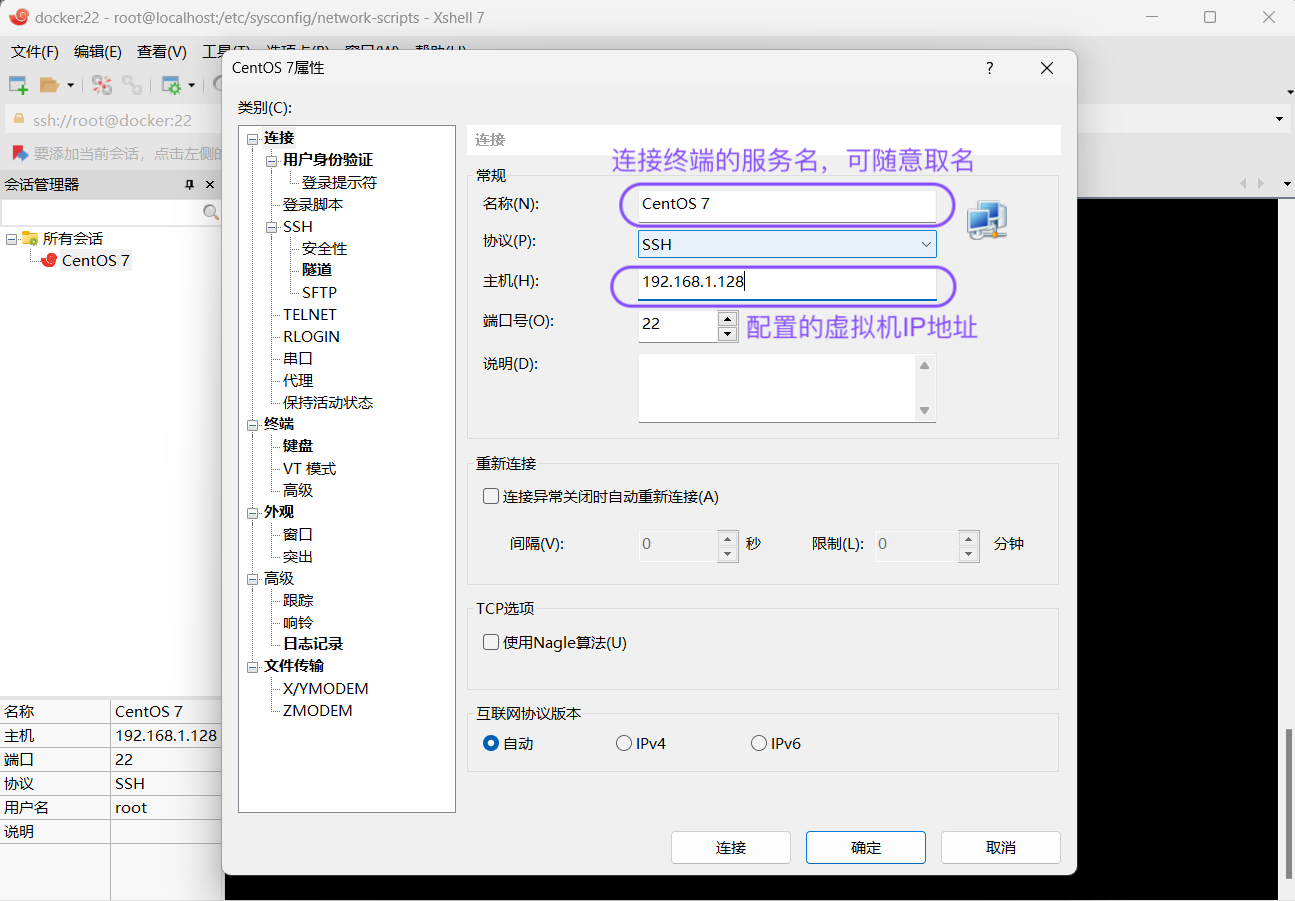
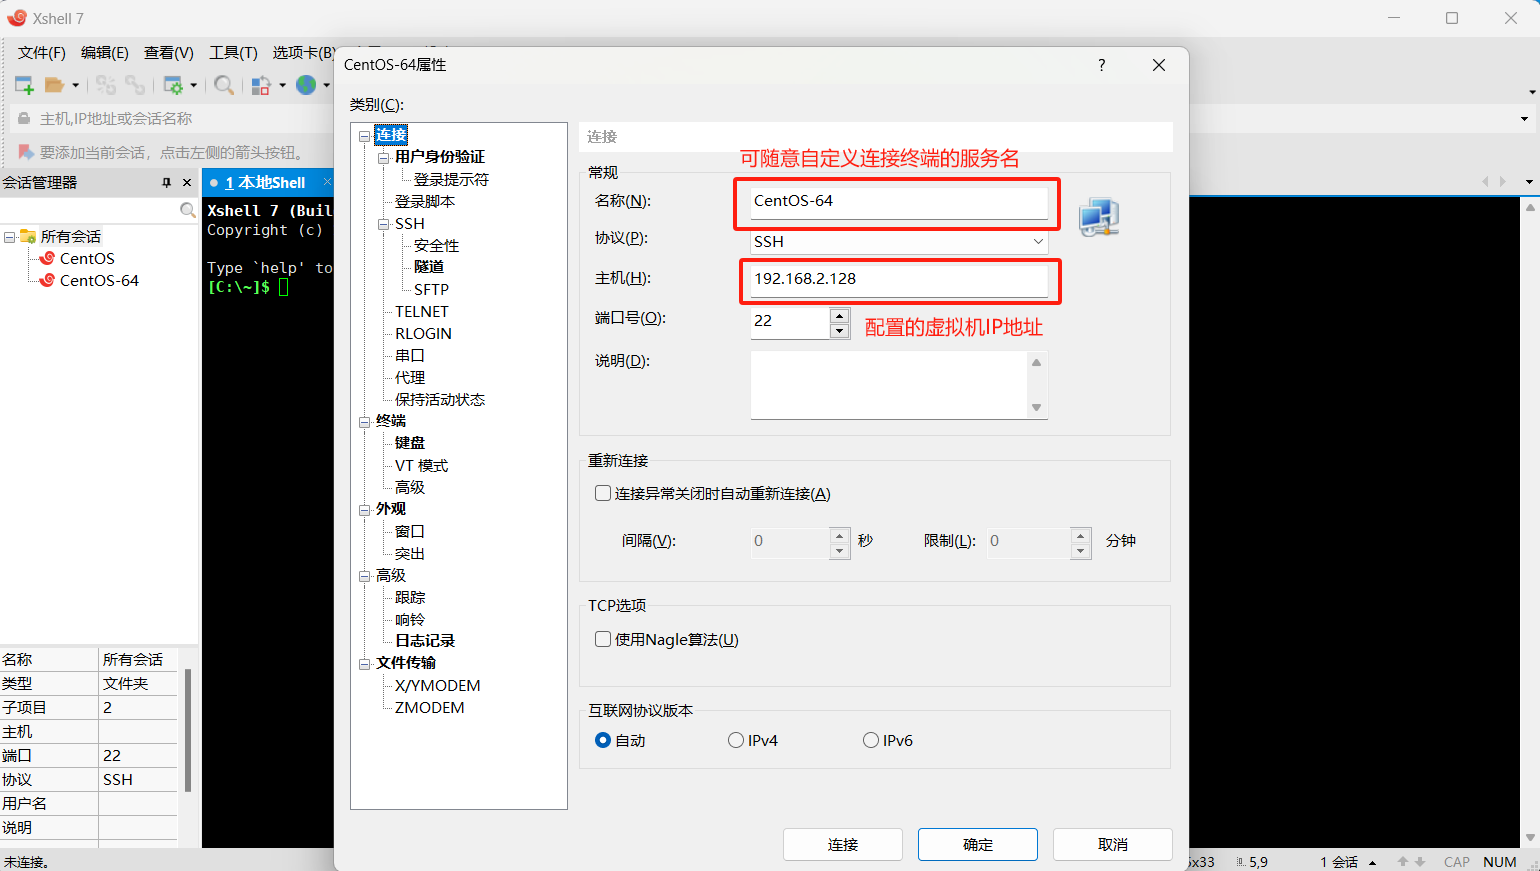
代码提交，无重大版本更迭

diff --git a/SpringBoot前沿技术栈/20_Docker/Windows/Docker-1、环境配置.md b/SpringBoot前沿技术栈/20_Docker/Windows/Docker-1、环境配置.md
@@ -4,7 +4,7 @@
 
 # **学习了解 Docker**
 
-## 一、安装 虚拟机-VMware、CentOS 7镜像系统
+## 一、安装 虚拟机-VMware、CentOS 7镜像系统 [安装过程有部分缺省，忽略部分为默认配置直接下一步即可]
 
 1. ### ***安装好VMware后，新建一个虚拟机,选择自定义配置***
 
@@ -86,18 +86,55 @@
    ```
 
    ![输入图片说明](../Windows/win-img/image1-14.png)
- 
+
 ---
 
-2. ### ***配置虚拟机网络信息***
+2. ### ***查看虚拟机网络配置：VMnet0是否连接，是否配置成宿主网络***
+    
+   ![输入图片说明](../Windows/win-img/image1-15.png)
+   ![输入图片说明](../Windows/win-img/image1-16.png)
 
+---
+
+3. ### ***验证虚拟机网络通信正常***
+
+   ```
+   ping baidu.com
+   ```
+   ![输入图片说明](../Windows/win-img/image1-17.png)
+
+---
+
+## 三、Xshell -- 终端模拟器
+
+1. 查看虚拟机的 Ip 地址
+   ``` 
+   ip addr
+   ```
+   ![输入图片说明](../Windows/win-img/image1-23.png)
+
+---
+
+2. ### ***连接虚拟机***
+
+   ![输入图片说明](../Windows/win-img/image1-18.png)
+   
+---
+
+3. ### ***连接成功***
+
+   ![输入图片说明](../Windows/win-img/image1-19.png)
+
+---
+
+4. ### ***配置虚拟机网络信息***
    ``` 
    # 终端命令
    cd /etc/sysconfig/network-scripts/
    ls
    vi ifcfg-ens33
    ```
-   
+
    ```
    # 进入配置文件中
    TYPE=Ethernet
@@ -117,10 +154,10 @@
    DEVICE=ens33
    # 由原来的no改成yes
    ONBOOT=yes
-   # 新增，当前主机的IP：在起始和结束ip中选一个
-   IPADDR=192.168.1.128
+   # 新增，当前主机的IP：在起始和结束ip中选一个[如：192.168.2.128/24 指的是一个包含192.168.2.0 到 192.168.2.255 的子网内的所有IP地址]
+   IPADDR=192.168.2.128
    # 网关----同宿主机的网关
-   GATEWAY=192.168.1.1
+   GATEWAY=192.168.2.1
    # 掩码
    NETMASK=255.255.255.0
    # DNS服务
@@ -128,37 +165,6 @@
    # DNS服务
    DNS2=8.8.4.4
    ```
----
-
-3. ### ***查看虚拟机网络配置：VMnet0是否连接，是否配置成宿主网络***
-    
-   ![输入图片说明](../Windows/win-img/image1-15.png)
-   ![输入图片说明](../Windows/win-img/image1-16.png)
-
----
-
-4. ### ***验证虚拟机网络通信正常***
-
-   ```
-   ping baidu.com
-   ```
-   ![输入图片说明](../Windows/win-img/image1-17.png)
-
----
-
-## 三、Xshell -- 终端模拟器
-
-1. ### ***连接虚拟机***
-
-   ![输入图片说明](../Windows/win-img/image1-18.png)
-   
----
-
-2. ### ***连接成功***
-
-   ![输入图片说明](../Windows/win-img/image1-19.png)
-
----
 
 ## 四、系统初始化
 
@@ -237,22 +243,6 @@
 
    ![输入图片说明](../Windows/win-img/image1-21.png)
    ![输入图片说明](../Windows/win-img/image1-22.png)
-
----
-
-6. ### ***wget（下载工具）***
-
-   ```
-   yum install wget -y
-   ```
-
----
-
-7. ### ***CentOS常用工具包***
-
-   ```
-   yum install -y wget bash-completion vim lrzsz wget expect net-tools nc nmap tree dos2unix htop iftop iotop unzip telnet sl psmisc nethogs glances bc ntpdate openldap-devel
-   ```
 
 ---
 

diff --git a/SpringBoot前沿技术栈/20_Docker/Windows/Docker-2、docker安装和配置.md b/SpringBoot前沿技术栈/20_Docker/Windows/Docker-2、docker安装和配置.md
@@ -6,16 +6,32 @@
   curl -o /etc/yum.repos.d/Centos-7.repo http://mirrors.aliyun.com/repo/Centos-7.repo
   curl -o /etc/yum.repos.d/docker-ce.repo http://mirrors.aliyun.com/docker-ce/linux/centos/docker-ce.repo
   
+  # 清除缓存
   yum clean all && yum makecache
+  
+  # wget（下载工具）
+  yum install wget -y
+  
+  # CentOS常用工具包
+  yum install -y wget bash-completion vim lrzsz wget expect net-tools nc nmap tree dos2unix htop iftop iotop unzip telnet sl psmisc nethogs glances bc ntpdate openldap-devel
+  
+- 如果以上Centos配置源操作出现报错：只需将 yum源 的一个配置文件文件 CentOS-base.repo 删除掉即可
+  ![image1-27.png](../Windows/win-img/image1-27.png)
+  ```
+  # 进入 yum 源配置文件目录
+  cd /etc/yum.repos.d/
+  ls
+  rm -rf CentOS-base.repo
   ```
 
-- 查看可下载版本
+
+- 查看 docker-ce 可下载的版本
 
   ```
   yum list docker-ce --showduplicates | sort -r
   ```
 
-- 安装
+- 安装 docker-ce
 
   ```
   # 最新版
@@ -65,10 +81,10 @@
   - 启动docker后需要安装ubuntu(乌邦图)系统，由于下载地址在国外，速度会非常缓慢。因此我们需要在国内找一个镜像下载
 
     [阿里云容器镜像服务 (aliyun.com)](https://cr.console.aliyun.com/cn-hangzhou/instances/mirrors)
-    ![image-20230721174626022](../Windows/win-img/image-20230721174626022.png)
+    ![image-20230721174626022](../Windows/win-img/image1-25.png)
 
     [道客镜像站_DaoCloud道客](https://www.daocloud.io/mirror)
-    ![image-20230721174936892](../Windows/win-img/image-20230721174936892.png)
+    ![image-20230721174936892](../Windows/win-img/image1-26.png)
 
 - ### 2.2.1 在命令行中进行镜像配置
 

diff --git a/SpringBoot前沿技术栈/20_Docker/Windows/Docker-3、部署网站.md b/SpringBoot前沿技术栈/20_Docker/Windows/Docker-3、部署网站.md
@@ -35,7 +35,8 @@
 ***
 
 - ### 1.3 下载jdk17安装包
-  - #### 1.3.1 下载
+  - #### 方法一：
+  - #### 1.3.1_1 下载
 
     ``` 
     # 通过wget命令下载jdk17
@@ -44,7 +45,7 @@
     # 浏览器查看当前下载的jdk版本
     https://www.oracle.com/java/technologies/downloads/#jdk17-linux
     ```
-  - #### 1.3.2 配置Dockerfile来制作jdk17镜像
+  - #### 1.3.1_2 配置Dockerfile来制作jdk17镜像
     ```
     # 进入当前路径的Dockerfile配置文件中
     vim dockerfile
@@ -65,7 +66,7 @@
     RUN javac --version \
         && java --version
     ```
-  - #### 1.3.3 构建我们的jdk17镜像
+  - #### 1.3.1_3 构建我们的jdk17镜像
     ```
     # 镜像名：java；版本：17.0.8
     docker build -t java:17.0.8 .
@@ -77,6 +78,11 @@
      > 查看构建完成的jdk17镜像：docker images
 
      - ![输入图片说明](../Windows/win-img/image1.png)
+
+  - #### 方法二：下载、镜像制作，一步到位
+  ```
+     docker pull openjdk:17
+  ```
 
 ***
 
@@ -135,7 +141,7 @@
     # 进入docker-springboot容器目录：方法二
     docker exec -it 容器Id /bin/bash
     ```
-     - ![输入图片说明](../Windows/win-img/image2.png)
+     - ![输入图片说明](../Windows/win-img/image1-24.png)
 
 ***
 

diff --git a/SpringBoot前沿技术栈/20_Docker/Mac/Mac-Docker-使用OrbStack.md b/SpringBoot前沿技术栈/20_Docker/Mac/Mac-Docker-使用OrbStack.md
@@ -15,7 +15,7 @@
    <h3>
      2、配置国内 docker 加速镜像源
      <figure>
-       自 2024年 6 月份，国内的 docker 镜像地址都失效后，许多的开源地址都无法正常使用。
+       自 2024年 6 月份，国内的 docker 镜像地址因监管要求被下架后，许多的开源地址都无法正常使用。
        <br/>
        截止目前 24年 10月，配置国内镜像源(比如阿里的docker镜像源)是对 'docker search [镜像名称]' 命令没有用的，
        因为docker的 search 命令最后还是通过他自己的地址搜索官方 Docker Hub 镜像，导致请求超时，无法正常响应。
